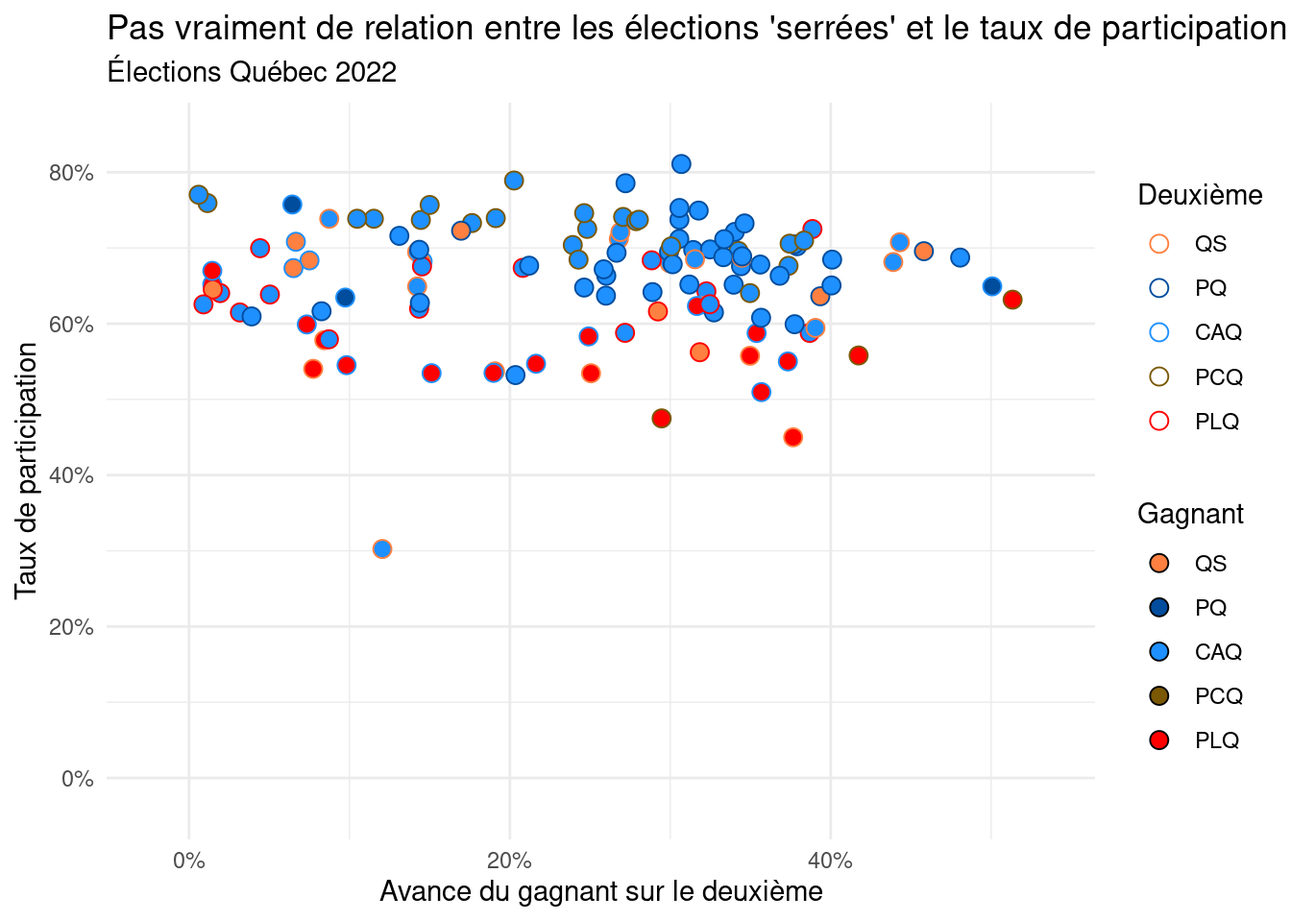
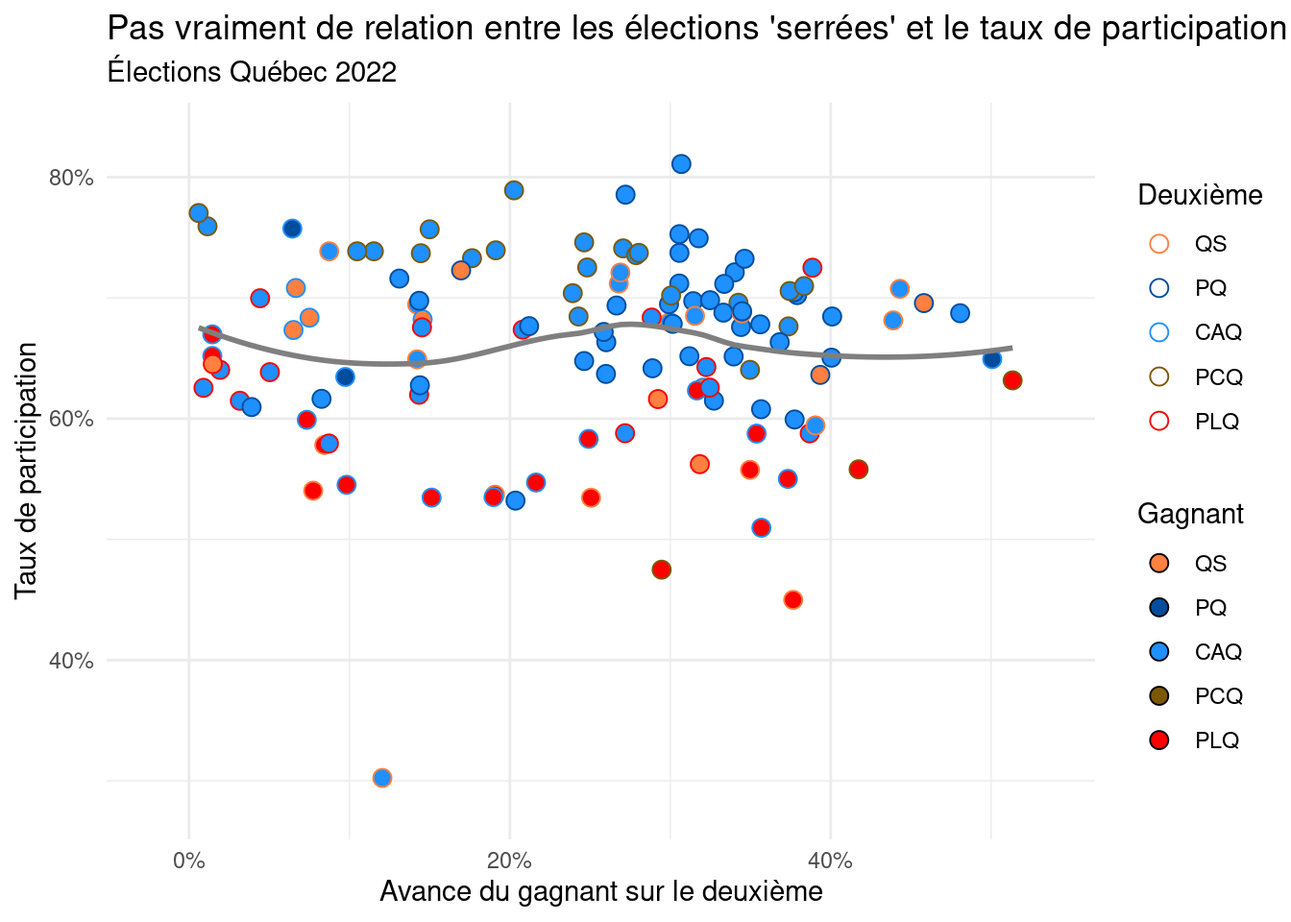
réparé le smooth en mettant aes(text=NULL)

diff --git a/static/post/2022-10-04-taux-de-participation-vs-serre/index.ca-fr_files/figure-html/widgets/widget_unnamed-chunk-4.html b/static/post/2022-10-04-taux-de-participation-vs-serre/index.ca-fr_files/figure-html/widgets/widget_unnamed-chunk-4.html
@@ -16,12 +16,12 @@
 </head>
 <body>
 <div id="htmlwidget_container">
-  <div id="htmlwidget-55739d3d28d488325084" style="width:100%;height:400px;" class="plotly html-widget"></div>
+  <div id="htmlwidget-c2f9a969cf5a049e5367" style="width:100%;height:400px;" class="plotly html-widget"></div>
   <script>HTMLWidgets.pymChild = new pym.Child();HTMLWidgets.addPostRenderHandler(function(){
                                 setTimeout(function(){HTMLWidgets.pymChild.sendHeight();},100);
                             });</script>
 </div>
-<script type="application/json" data-for="htmlwidget-55739d3d28d488325084">{"x":{"data":[{"x":[0.0145,0.0734,0.2163,0.2491,0.3538,0.3568,0.1512,0.3733,0.3166,0.0982,0.0145,0.1898],"y":[0.6519,0.599,0.5471,0.5832,0.5876,0.5096,0.5346,0.5501,0.6233,0.5452,0.6698,0.535],"text":["Vaudreuil gagnant: PLQ deuxième:CAQ","La Pinière gagnant: PLQ deuxième:CAQ","Marguerite-Bourgeoys gagnant: PLQ deuxième:CAQ","Marquette gagnant: PLQ deuxième:CAQ","Nelligan gagnant: PLQ deuxième:CAQ","Saint-Laurent gagnant: PLQ deuxième:CAQ","Bourassa-Sauvé gagnant: PLQ deuxième:CAQ","Jeanne-Mance-Viger gagnant: PLQ deuxième:CAQ","LaFontaine gagnant: PLQ deuxième:CAQ","Chomedey gagnant: PLQ deuxième:CAQ","Mille-Îles gagnant: PLQ deuxième:CAQ","Pontiac gagnant: PLQ deuxième:CAQ"],"type":"scatter","mode":"markers","marker":{"autocolorscale":false,"color":"rgba(255,0,0,1)","opacity":1,"size":11.3385826771654,"symbol":"circle","line":{"width":1.88976377952756,"color":"rgba(30,144,255,1)"}},"hoveron":"points","name":"(CAQ,PLQ)","legendgroup":"(CAQ,PLQ)","showlegend":true,"xaxis":"x","yaxis":"y","hoverinfo":"text","frame":null},{"x":[0.0974,0.5007,0.0644000000000001],"y":[0.6345,0.6493,0.7574],"text":["Camille-Laurin gagnant: PQ deuxième:CAQ","Matane-Matapédia gagnant: PQ deuxième:CAQ","Îles-de-la-Madeleine gagnant: PQ deuxième:CAQ"],"type":"scatter","mode":"markers","marker":{"autocolorscale":false,"color":"rgba(0,76,157,1)","opacity":1,"size":11.3385826771654,"symbol":"circle","line":{"width":1.88976377952756,"color":"rgba(30,144,255,1)"}},"hoveron":"points","name":"(CAQ,PQ)","legendgroup":"(CAQ,PQ)","showlegend":true,"xaxis":"x","yaxis":"y","hoverinfo":"text","frame":null},{"x":[0.0666,0.0751,0.3204,0.1456,0.0651],"y":[0.7082,0.6836,0.6256,0.6822,0.6734],"text":["Sherbrooke gagnant: QS deuxième:CAQ","Maurice-Richard gagnant: QS deuxième:CAQ","Hochelaga-Maisonneuve gagnant: QS deuxième:CAQ","Rosemont gagnant: QS deuxième:CAQ","Jean-Lesage gagnant: QS deuxième:CAQ"],"type":"scatter","mode":"markers","marker":{"autocolorscale":false,"color":"rgba(255,128,64,1)","opacity":1,"size":11.3385826771654,"symbol":"circle","line":{"width":1.88976377952756,"color":"rgba(30,144,255,1)"}},"hoveron":"points","name":"(CAQ,QS)","legendgroup":"(CAQ,QS)","showlegend":true,"xaxis":"x","yaxis":"y","hoverinfo":"text","frame":null},{"x":[0.2392,0.3737,0.3425,0.2706,0.2482,0.3744,0.3497,0.3834,0.1764,0.1445,0.2787,0.1912,0.2463,0.15,0.3005,0.0115,0.00600000000000001,0.1152,0.2026,0.2804,0.1048,0.2428],"y":[0.7039,0.6764,0.696,0.741,0.7252,0.7057,0.6404,0.7098,0.7329,0.737,0.7354,0.7394,0.746,0.7568,0.702,0.7593,0.7703,0.7386,0.7891,0.7373,0.7386,0.6846],"text":["Mégantic gagnant: CAQ deuxième:PCQ","Johnson gagnant: CAQ deuxième:PCQ","Drummond-Bois-Francs gagnant: CAQ deuxième:PCQ","Arthabaska gagnant: CAQ deuxième:PCQ","Nicolet-Bécancour gagnant: CAQ deuxième:PCQ","Maskinongé gagnant: CAQ deuxième:PCQ","Laviolette-Saint-Maurice gagnant: CAQ deuxième:PCQ","Champlain gagnant: CAQ deuxième:PCQ","Portneuf gagnant: CAQ deuxième:PCQ","La Peltrie gagnant: CAQ deuxième:PCQ","Vanier-Les Rivières gagnant: CAQ deuxième:PCQ","Montmorency gagnant: CAQ deuxième:PCQ","Charlesbourg gagnant: CAQ deuxième:PCQ","Chauveau gagnant: CAQ deuxième:PCQ","Charlevoix-Côte-de-Beaupré gagnant: CAQ deuxième:PCQ","Beauce-Sud gagnant: CAQ deuxième:PCQ","Beauce-Nord gagnant: CAQ deuxième:PCQ","Lotbinière-Frontenac gagnant: CAQ deuxième:PCQ","Chutes-de-la-Chaudière gagnant: CAQ deuxième:PCQ","Lévis gagnant: CAQ deuxième:PCQ","Bellechasse gagnant: CAQ deuxième:PCQ","Côte-du-Sud gagnant: CAQ deuxième:PCQ"],"type":"scatter","mode":"markers","marker":{"autocolorscale":false,"color":"rgba(30,144,255,1)","opacity":1,"size":11.3385826771654,"symbol":"circle","line":{"width":1.88976377952756,"color":"rgba(123,88,4,1)"}},"hoveron":"points","name":"(PCQ,CAQ)","legendgroup":"(PCQ,CAQ)","showlegend":true,"xaxis":"x","yaxis":"y","hoverinfo":"text","frame":null},{"x":[0.5134,0.4174,0.2946],"y":[0.6317,0.558,0.4749],"text":["Jacques-Cartier gagnant: PLQ deuxième:PCQ","Robert-Baldwin gagnant: PLQ deuxième:PCQ","D'Arcy-McGee gagnant: PLQ deuxième:PCQ"],"type":"scatter","mode":"markers","marker":{"autocolorscale":false,"color":"rgba(255,0,0,1)","opacity":1,"size":11.3385826771654,"symbol":"circle","line":{"width":1.88976377952756,"color":"rgba(123,88,4,1)"}},"hoveron":"points","name":"(PCQ,PLQ)","legendgroup":"(PCQ,PLQ)","showlegend":true,"xaxis":"x","yaxis":"y","hoverinfo":"text","frame":null},{"x":[0.3225,0.208,0.1434,0.3886,0.2884,0.0194,0.0504,0.0317,0.00899999999999999,0.1452,0.0443,0.0872,0.2718,0.3869,0.3246],"y":[0.6427,0.6737,0.6198,0.725,0.6837,0.6404,0.6385,0.6148,0.6255,0.6756,0.6997,0.5794,0.5879,0.5878,0.6257],"text":["Huntingdon gagnant: CAQ deuxième:PLQ","Soulanges gagnant: CAQ deuxième:PLQ","Châteauguay gagnant: CAQ deuxième:PLQ","La Prairie gagnant: CAQ deuxième:PLQ","Vachon gagnant: CAQ deuxième:PLQ","Laporte gagnant: CAQ deuxième:PLQ","Anjou-Louis-Riel gagnant: CAQ deuxième:PLQ","Laval-des-Rapides gagnant: CAQ deuxième:PLQ","Fabre gagnant: CAQ deuxième:PLQ","Sainte-Rose gagnant: CAQ deuxième:PLQ","Vimont gagnant: CAQ deuxième:PLQ","Hull gagnant: CAQ deuxième:PLQ","Gatineau gagnant: CAQ deuxième:PLQ","Chapleau gagnant: CAQ deuxième:PLQ","Abitibi-Est gagnant: CAQ deuxième:PLQ"],"type":"scatter","mode":"markers","marker":{"autocolorscale":false,"color":"rgba(30,144,255,1)","opacity":1,"size":11.3385826771654,"symbol":"circle","line":{"width":1.88976377952756,"color":"rgba(255,0,0,1)"}},"hoveron":"points","name":"(PLQ,CAQ)","legendgroup":"(PLQ,CAQ)","showlegend":true,"xaxis":"x","yaxis":"y","hoverinfo":"text","frame":null},{"x":[0.0148,0.3184,0.2923],"y":[0.6452,0.5623,0.6162],"text":["Verdun gagnant: QS deuxième:PLQ","Sainte-Marie-Saint-Jacques gagnant: QS deuxième:PLQ","Laurier-Dorion gagnant: QS deuxième:PLQ"],"type":"scatter","mode":"markers","marker":{"autocolorscale":false,"color":"rgba(255,128,64,1)","opacity":1,"size":11.3385826771654,"symbol":"circle","line":{"width":1.88976377952756,"color":"rgba(255,0,0,1)"}},"hoveron":"points","name":"(PLQ,QS)","legendgroup":"(PLQ,QS)","showlegend":true,"xaxis":"x","yaxis":"y","hoverinfo":"text","frame":null},{"x":[0.3791,0.3143,0.3682,0.3248,0.3057,0.0826,0.212,0.2721,0.3057,0.3177,0.3772,0.3561,0.2601,0.2992,0.3331,0.2889,0.3119,0.3441,0.3402,0.3056,0.3336,0.3463,0.3015,0.1435,0.3272,0.2665,0.2463,0.3395,0.2599,0.3069,0.3448,0.1311,0.1439,0.039,0.2035,0.3775,0.4005,0.4807,0.4009,0.2585,0.3566],"y":[0.7023,0.6973,0.6633,0.6981,0.7373,0.6164,0.6766,0.7855,0.7528,0.7494,0.7047,0.6781,0.6633,0.6948,0.6878,0.6417,0.6517,0.6759,0.7212,0.7119,0.7116,0.7324,0.6785,0.6976,0.6149,0.6937,0.6477,0.6515,0.637,0.8109,0.6889,0.716,0.6276,0.6096,0.5321,0.5993,0.6505,0.6873,0.6846,0.6718,0.6078],"text":["Iberville gagnant: CAQ deuxième:PQ","Saint-Jean gagnant: CAQ deuxième:PQ","Beauharnois gagnant: CAQ deuxième:PQ","Sanguinet gagnant: CAQ deuxième:PQ","Chambly gagnant: CAQ deuxième:PQ","Marie-Victorin gagnant: CAQ deuxième:PQ","Taillon gagnant: CAQ deuxième:PQ","Montarville gagnant: CAQ deuxième:PQ","Verchères gagnant: CAQ deuxième:PQ","Borduas gagnant: CAQ deuxième:PQ","Saint-Hyacinthe gagnant: CAQ deuxième:PQ","Richelieu gagnant: CAQ deuxième:PQ","Pointe-aux-Trembles gagnant: CAQ deuxième:PQ","Deux-Montagnes gagnant: CAQ deuxième:PQ","Mirabel gagnant: CAQ deuxième:PQ","Argenteuil gagnant: CAQ deuxième:PQ","Saint-Jérôme gagnant: CAQ deuxième:PQ","Les Plaines gagnant: CAQ deuxième:PQ","Blainville gagnant: CAQ deuxième:PQ","Terrebonne gagnant: CAQ deuxième:PQ","Masson gagnant: CAQ deuxième:PQ","Repentigny gagnant: CAQ deuxième:PQ","Berthier gagnant: CAQ deuxième:PQ","Joliette gagnant: CAQ deuxième:PQ","Rousseau gagnant: CAQ deuxième:PQ","Prévost gagnant: CAQ deuxième:PQ","Bertrand gagnant: CAQ deuxième:PQ","Labelle gagnant: CAQ deuxième:PQ","Abitibi-Ouest gagnant: CAQ deuxième:PQ","Louis-Hébert gagnant: CAQ deuxième:PQ","Rivière-du-Loup-Témiscouata gagnant: CAQ deuxième:PQ","Rimouski gagnant: CAQ deuxième:PQ","Bonaventure gagnant: CAQ deuxième:PQ","Gaspé gagnant: CAQ deuxième:PQ","Duplessis gagnant: CAQ deuxième:PQ","René-Lévesque gagnant: CAQ deuxième:PQ","Dubuc gagnant: CAQ deuxième:PQ","Chicoutimi gagnant: CAQ deuxième:PQ","Jonquière gagnant: CAQ deuxième:PQ","Lac-Saint-Jean gagnant: CAQ deuxième:PQ","Roberval gagnant: CAQ deuxième:PQ"],"type":"scatter","mode":"markers","marker":{"autocolorscale":false,"color":"rgba(30,144,255,1)","opacity":1,"size":11.3385826771654,"symbol":"circle","line":{"width":1.88976377952756,"color":"rgba(0,76,157,1)"}},"hoveron":"points","name":"(PQ,CAQ)","legendgroup":"(PQ,CAQ)","showlegend":true,"xaxis":"x","yaxis":"y","hoverinfo":"text","frame":null},{"x":[0.4581,0.3935,0.1696],"y":[0.6957,0.6362,0.7228],"text":["Gouin gagnant: QS deuxième:PQ","Mercier gagnant: QS deuxième:PQ","Taschereau gagnant: QS deuxième:PQ"],"type":"scatter","mode":"markers","marker":{"autocolorscale":false,"color":"rgba(255,128,64,1)","opacity":1,"size":11.3385826771654,"symbol":"circle","line":{"width":1.88976377952756,"color":"rgba(0,76,157,1)"}},"hoveron":"points","name":"(PQ,QS)","legendgroup":"(PQ,QS)","showlegend":true,"xaxis":"x","yaxis":"y","hoverinfo":"text","frame":null},{"x":[0.1422,0.2679,0.2689,0.2996,0.439,0.3154,0.4431,0.3905,0.1422,0.3446,0.0874,0.1205],"y":[0.6945,0.7119,0.721,0.6799,0.6814,0.6851,0.7075,0.5944,0.6491,0.6872,0.7386,0.3024],"text":["Saint-François gagnant: CAQ deuxième:QS","Orford gagnant: CAQ deuxième:QS","Richmond gagnant: CAQ deuxième:QS","Brome-Missisquoi gagnant: CAQ deuxième:QS","Granby gagnant: CAQ deuxième:QS","Groulx gagnant: CAQ deuxième:QS","L'Assomption gagnant: CAQ deuxième:QS","Papineau gagnant: CAQ deuxième:QS","Rouyn-Noranda-Témiscamingue gagnant: CAQ deuxième:QS","Trois-Rivières gagnant: CAQ deuxième:QS","Jean-Talon gagnant: CAQ deuxième:QS","Ungava gagnant: CAQ deuxième:QS"],"type":"scatter","mode":"markers","marker":{"autocolorscale":false,"color":"rgba(30,144,255,1)","opacity":1,"size":11.3385826771654,"symbol":"circle","line":{"width":1.88976377952756,"color":"rgba(255,128,64,1)"}},"hoveron":"points","name":"(QS,CAQ)","legendgroup":"(QS,CAQ)","showlegend":true,"xaxis":"x","yaxis":"y","hoverinfo":"text","frame":null},{"x":[0.3497,0.0843,0.3766,0.1907,0.2506,0.0774],"y":[0.5576,0.5782,0.4499,0.537,0.5345,0.5403],"text":["Notre-Dame-de-Grâce gagnant: PLQ deuxième:QS","Saint-Henri-Sainte-Anne gagnant: PLQ deuxième:QS","Westmount-Saint-Louis gagnant: PLQ deuxième:QS","Mont-Royal-Outremont gagnant: PLQ deuxième:QS","Acadie gagnant: PLQ deuxième:QS","Viau gagnant: PLQ deuxième:QS"],"type":"scatter","mode":"markers","marker":{"autocolorscale":false,"color":"rgba(255,0,0,1)","opacity":1,"size":11.3385826771654,"symbol":"circle","line":{"width":1.88976377952756,"color":"rgba(255,128,64,1)"}},"hoveron":"points","name":"(QS,PLQ)","legendgroup":"(QS,PLQ)","showlegend":true,"xaxis":"x","yaxis":"y","hoverinfo":"text","frame":null},{"visible":false,"showlegend":false,"xaxis":null,"yaxis":null,"hoverinfo":"text","frame":null}],"layout":{"margin":{"t":43.7625570776256,"r":7.30593607305936,"b":40.1826484018265,"l":43.1050228310502},"font":{"color":"rgba(0,0,0,1)","family":"","size":14.6118721461187},"title":{"text":"Pas vraiment de relation entre les élections 'serrées' et le taux de participation","font":{"color":"rgba(0,0,0,1)","family":"","size":17.5342465753425},"x":0,"xref":"paper"},"xaxis":{"domain":[0,1],"automargin":true,"type":"linear","autorange":false,"range":[-0.05134,0.56474],"tickmode":"array","ticktext":["0%","20%","40%"],"tickvals":[0,0.2,0.4],"categoryorder":"array","categoryarray":["0%","20%","40%"],"nticks":null,"ticks":"","tickcolor":null,"ticklen":3.65296803652968,"tickwidth":0,"showticklabels":true,"tickfont":{"color":"rgba(77,77,77,1)","family":"","size":11.689497716895},"tickangle":-0,"showline":false,"linecolor":null,"linewidth":0,"showgrid":true,"gridcolor":"rgba(235,235,235,1)","gridwidth":0.66417600664176,"zeroline":false,"anchor":"y","title":{"text":"Avance du gagnant sur le deuxième","font":{"color":"rgba(0,0,0,1)","family":"","size":14.6118721461187}},"hoverformat":".2f"},"yaxis":{"domain":[0,1],"automargin":true,"type":"linear","autorange":false,"range":[-0.08109,0.89199],"tickmode":"array","ticktext":["0%","20%","40%","60%","80%"],"tickvals":[0,0.2,0.4,0.6,0.8],"categoryorder":"array","categoryarray":["0%","20%","40%","60%","80%"],"nticks":null,"ticks":"","tickcolor":null,"ticklen":3.65296803652968,"tickwidth":0,"showticklabels":true,"tickfont":{"color":"rgba(77,77,77,1)","family":"","size":11.689497716895},"tickangle":-0,"showline":false,"linecolor":null,"linewidth":0,"showgrid":true,"gridcolor":"rgba(235,235,235,1)","gridwidth":0.66417600664176,"zeroline":false,"anchor":"x","title":{"text":"Taux de participation","font":{"color":"rgba(0,0,0,1)","family":"","size":14.6118721461187}},"hoverformat":".2f"},"shapes":[{"type":"rect","fillcolor":null,"line":{"color":null,"width":0,"linetype":[]},"yref":"paper","xref":"paper","x0":0,"x1":1,"y0":0,"y1":1}],"showlegend":false,"legend":{"bgcolor":null,"bordercolor":null,"borderwidth":0,"font":{"color":"rgba(0,0,0,1)","family":"","size":11.689497716895}},"hovermode":"closest","barmode":"relative"},"config":{"doubleClick":"reset","modeBarButtonsToAdd":["hoverclosest","hovercompare"],"showSendToCloud":false},"source":"A","attrs":{"91e3d9e601b4":{"x":{},"y":{},"text":{},"fill":{},"colour":{},"type":"scatter"},"91e3d59ccb02a":{"x":{},"y":{},"text":{}}},"cur_data":"91e3d9e601b4","visdat":{"91e3d9e601b4":["function (y) ","x"],"91e3d59ccb02a":["function (y) ","x"]},"highlight":{"on":"plotly_click","persistent":false,"dynamic":false,"selectize":false,"opacityDim":0.2,"selected":{"opacity":1},"debounce":0},"shinyEvents":["plotly_hover","plotly_click","plotly_selected","plotly_relayout","plotly_brushed","plotly_brushing","plotly_clickannotation","plotly_doubleclick","plotly_deselect","plotly_afterplot","plotly_sunburstclick"],"base_url":"https://plot.ly"},"evals":[],"jsHooks":[]}</script>
-<script type="application/htmlwidget-sizing" data-for="htmlwidget-55739d3d28d488325084">{"viewer":{"width":"100%","height":400,"padding":0,"fill":false},"browser":{"width":"100%","height":400,"padding":0,"fill":false}}</script>
+<script type="application/json" data-for="htmlwidget-c2f9a969cf5a049e5367">{"x":{"data":[{"x":[0.0145,0.0734,0.2163,0.2491,0.3538,0.3568,0.1512,0.3733,0.3166,0.0982,0.0145,0.1898],"y":[0.6519,0.599,0.5471,0.5832,0.5876,0.5096,0.5346,0.5501,0.6233,0.5452,0.6698,0.535],"text":["Vaudreuil gagnant: PLQ deuxième:CAQ","La Pinière gagnant: PLQ deuxième:CAQ","Marguerite-Bourgeoys gagnant: PLQ deuxième:CAQ","Marquette gagnant: PLQ deuxième:CAQ","Nelligan gagnant: PLQ deuxième:CAQ","Saint-Laurent gagnant: PLQ deuxième:CAQ","Bourassa-Sauvé gagnant: PLQ deuxième:CAQ","Jeanne-Mance-Viger gagnant: PLQ deuxième:CAQ","LaFontaine gagnant: PLQ deuxième:CAQ","Chomedey gagnant: PLQ deuxième:CAQ","Mille-Îles gagnant: PLQ deuxième:CAQ","Pontiac gagnant: PLQ deuxième:CAQ"],"type":"scatter","mode":"markers","marker":{"autocolorscale":false,"color":"rgba(255,0,0,1)","opacity":1,"size":11.3385826771654,"symbol":"circle","line":{"width":1.88976377952756,"color":"rgba(30,144,255,1)"}},"hoveron":"points","name":"(CAQ,PLQ)","legendgroup":"(CAQ,PLQ)","showlegend":true,"xaxis":"x","yaxis":"y","hoverinfo":"text","frame":null},{"x":[0.0974,0.5007,0.0644000000000001],"y":[0.6345,0.6493,0.7574],"text":["Camille-Laurin gagnant: PQ deuxième:CAQ","Matane-Matapédia gagnant: PQ deuxième:CAQ","Îles-de-la-Madeleine gagnant: PQ deuxième:CAQ"],"type":"scatter","mode":"markers","marker":{"autocolorscale":false,"color":"rgba(0,76,157,1)","opacity":1,"size":11.3385826771654,"symbol":"circle","line":{"width":1.88976377952756,"color":"rgba(30,144,255,1)"}},"hoveron":"points","name":"(CAQ,PQ)","legendgroup":"(CAQ,PQ)","showlegend":true,"xaxis":"x","yaxis":"y","hoverinfo":"text","frame":null},{"x":[0.0666,0.0751,0.3204,0.1456,0.0651],"y":[0.7082,0.6836,0.6256,0.6822,0.6734],"text":["Sherbrooke gagnant: QS deuxième:CAQ","Maurice-Richard gagnant: QS deuxième:CAQ","Hochelaga-Maisonneuve gagnant: QS deuxième:CAQ","Rosemont gagnant: QS deuxième:CAQ","Jean-Lesage gagnant: QS deuxième:CAQ"],"type":"scatter","mode":"markers","marker":{"autocolorscale":false,"color":"rgba(255,128,64,1)","opacity":1,"size":11.3385826771654,"symbol":"circle","line":{"width":1.88976377952756,"color":"rgba(30,144,255,1)"}},"hoveron":"points","name":"(CAQ,QS)","legendgroup":"(CAQ,QS)","showlegend":true,"xaxis":"x","yaxis":"y","hoverinfo":"text","frame":null},{"x":[0.2392,0.3737,0.3425,0.2706,0.2482,0.3744,0.3497,0.3834,0.1764,0.1445,0.2787,0.1912,0.2463,0.15,0.3005,0.0115,0.00600000000000001,0.1152,0.2026,0.2804,0.1048,0.2428],"y":[0.7039,0.6764,0.696,0.741,0.7252,0.7057,0.6404,0.7098,0.7329,0.737,0.7354,0.7394,0.746,0.7568,0.702,0.7593,0.7703,0.7386,0.7891,0.7373,0.7386,0.6846],"text":["Mégantic gagnant: CAQ deuxième:PCQ","Johnson gagnant: CAQ deuxième:PCQ","Drummond-Bois-Francs gagnant: CAQ deuxième:PCQ","Arthabaska gagnant: CAQ deuxième:PCQ","Nicolet-Bécancour gagnant: CAQ deuxième:PCQ","Maskinongé gagnant: CAQ deuxième:PCQ","Laviolette-Saint-Maurice gagnant: CAQ deuxième:PCQ","Champlain gagnant: CAQ deuxième:PCQ","Portneuf gagnant: CAQ deuxième:PCQ","La Peltrie gagnant: CAQ deuxième:PCQ","Vanier-Les Rivières gagnant: CAQ deuxième:PCQ","Montmorency gagnant: CAQ deuxième:PCQ","Charlesbourg gagnant: CAQ deuxième:PCQ","Chauveau gagnant: CAQ deuxième:PCQ","Charlevoix-Côte-de-Beaupré gagnant: CAQ deuxième:PCQ","Beauce-Sud gagnant: CAQ deuxième:PCQ","Beauce-Nord gagnant: CAQ deuxième:PCQ","Lotbinière-Frontenac gagnant: CAQ deuxième:PCQ","Chutes-de-la-Chaudière gagnant: CAQ deuxième:PCQ","Lévis gagnant: CAQ deuxième:PCQ","Bellechasse gagnant: CAQ deuxième:PCQ","Côte-du-Sud gagnant: CAQ deuxième:PCQ"],"type":"scatter","mode":"markers","marker":{"autocolorscale":false,"color":"rgba(30,144,255,1)","opacity":1,"size":11.3385826771654,"symbol":"circle","line":{"width":1.88976377952756,"color":"rgba(123,88,4,1)"}},"hoveron":"points","name":"(PCQ,CAQ)","legendgroup":"(PCQ,CAQ)","showlegend":true,"xaxis":"x","yaxis":"y","hoverinfo":"text","frame":null},{"x":[0.5134,0.4174,0.2946],"y":[0.6317,0.558,0.4749],"text":["Jacques-Cartier gagnant: PLQ deuxième:PCQ","Robert-Baldwin gagnant: PLQ deuxième:PCQ","D'Arcy-McGee gagnant: PLQ deuxième:PCQ"],"type":"scatter","mode":"markers","marker":{"autocolorscale":false,"color":"rgba(255,0,0,1)","opacity":1,"size":11.3385826771654,"symbol":"circle","line":{"width":1.88976377952756,"color":"rgba(123,88,4,1)"}},"hoveron":"points","name":"(PCQ,PLQ)","legendgroup":"(PCQ,PLQ)","showlegend":true,"xaxis":"x","yaxis":"y","hoverinfo":"text","frame":null},{"x":[0.3225,0.208,0.1434,0.3886,0.2884,0.0194,0.0504,0.0317,0.00899999999999999,0.1452,0.0443,0.0872,0.2718,0.3869,0.3246],"y":[0.6427,0.6737,0.6198,0.725,0.6837,0.6404,0.6385,0.6148,0.6255,0.6756,0.6997,0.5794,0.5879,0.5878,0.6257],"text":["Huntingdon gagnant: CAQ deuxième:PLQ","Soulanges gagnant: CAQ deuxième:PLQ","Châteauguay gagnant: CAQ deuxième:PLQ","La Prairie gagnant: CAQ deuxième:PLQ","Vachon gagnant: CAQ deuxième:PLQ","Laporte gagnant: CAQ deuxième:PLQ","Anjou-Louis-Riel gagnant: CAQ deuxième:PLQ","Laval-des-Rapides gagnant: CAQ deuxième:PLQ","Fabre gagnant: CAQ deuxième:PLQ","Sainte-Rose gagnant: CAQ deuxième:PLQ","Vimont gagnant: CAQ deuxième:PLQ","Hull gagnant: CAQ deuxième:PLQ","Gatineau gagnant: CAQ deuxième:PLQ","Chapleau gagnant: CAQ deuxième:PLQ","Abitibi-Est gagnant: CAQ deuxième:PLQ"],"type":"scatter","mode":"markers","marker":{"autocolorscale":false,"color":"rgba(30,144,255,1)","opacity":1,"size":11.3385826771654,"symbol":"circle","line":{"width":1.88976377952756,"color":"rgba(255,0,0,1)"}},"hoveron":"points","name":"(PLQ,CAQ)","legendgroup":"(PLQ,CAQ)","showlegend":true,"xaxis":"x","yaxis":"y","hoverinfo":"text","frame":null},{"x":[0.0148,0.3184,0.2923],"y":[0.6452,0.5623,0.6162],"text":["Verdun gagnant: QS deuxième:PLQ","Sainte-Marie-Saint-Jacques gagnant: QS deuxième:PLQ","Laurier-Dorion gagnant: QS deuxième:PLQ"],"type":"scatter","mode":"markers","marker":{"autocolorscale":false,"color":"rgba(255,128,64,1)","opacity":1,"size":11.3385826771654,"symbol":"circle","line":{"width":1.88976377952756,"color":"rgba(255,0,0,1)"}},"hoveron":"points","name":"(PLQ,QS)","legendgroup":"(PLQ,QS)","showlegend":true,"xaxis":"x","yaxis":"y","hoverinfo":"text","frame":null},{"x":[0.3791,0.3143,0.3682,0.3248,0.3057,0.0826,0.212,0.2721,0.3057,0.3177,0.3772,0.3561,0.2601,0.2992,0.3331,0.2889,0.3119,0.3441,0.3402,0.3056,0.3336,0.3463,0.3015,0.1435,0.3272,0.2665,0.2463,0.3395,0.2599,0.3069,0.3448,0.1311,0.1439,0.039,0.2035,0.3775,0.4005,0.4807,0.4009,0.2585,0.3566],"y":[0.7023,0.6973,0.6633,0.6981,0.7373,0.6164,0.6766,0.7855,0.7528,0.7494,0.7047,0.6781,0.6633,0.6948,0.6878,0.6417,0.6517,0.6759,0.7212,0.7119,0.7116,0.7324,0.6785,0.6976,0.6149,0.6937,0.6477,0.6515,0.637,0.8109,0.6889,0.716,0.6276,0.6096,0.5321,0.5993,0.6505,0.6873,0.6846,0.6718,0.6078],"text":["Iberville gagnant: CAQ deuxième:PQ","Saint-Jean gagnant: CAQ deuxième:PQ","Beauharnois gagnant: CAQ deuxième:PQ","Sanguinet gagnant: CAQ deuxième:PQ","Chambly gagnant: CAQ deuxième:PQ","Marie-Victorin gagnant: CAQ deuxième:PQ","Taillon gagnant: CAQ deuxième:PQ","Montarville gagnant: CAQ deuxième:PQ","Verchères gagnant: CAQ deuxième:PQ","Borduas gagnant: CAQ deuxième:PQ","Saint-Hyacinthe gagnant: CAQ deuxième:PQ","Richelieu gagnant: CAQ deuxième:PQ","Pointe-aux-Trembles gagnant: CAQ deuxième:PQ","Deux-Montagnes gagnant: CAQ deuxième:PQ","Mirabel gagnant: CAQ deuxième:PQ","Argenteuil gagnant: CAQ deuxième:PQ","Saint-Jérôme gagnant: CAQ deuxième:PQ","Les Plaines gagnant: CAQ deuxième:PQ","Blainville gagnant: CAQ deuxième:PQ","Terrebonne gagnant: CAQ deuxième:PQ","Masson gagnant: CAQ deuxième:PQ","Repentigny gagnant: CAQ deuxième:PQ","Berthier gagnant: CAQ deuxième:PQ","Joliette gagnant: CAQ deuxième:PQ","Rousseau gagnant: CAQ deuxième:PQ","Prévost gagnant: CAQ deuxième:PQ","Bertrand gagnant: CAQ deuxième:PQ","Labelle gagnant: CAQ deuxième:PQ","Abitibi-Ouest gagnant: CAQ deuxième:PQ","Louis-Hébert gagnant: CAQ deuxième:PQ","Rivière-du-Loup-Témiscouata gagnant: CAQ deuxième:PQ","Rimouski gagnant: CAQ deuxième:PQ","Bonaventure gagnant: CAQ deuxième:PQ","Gaspé gagnant: CAQ deuxième:PQ","Duplessis gagnant: CAQ deuxième:PQ","René-Lévesque gagnant: CAQ deuxième:PQ","Dubuc gagnant: CAQ deuxième:PQ","Chicoutimi gagnant: CAQ deuxième:PQ","Jonquière gagnant: CAQ deuxième:PQ","Lac-Saint-Jean gagnant: CAQ deuxième:PQ","Roberval gagnant: CAQ deuxième:PQ"],"type":"scatter","mode":"markers","marker":{"autocolorscale":false,"color":"rgba(30,144,255,1)","opacity":1,"size":11.3385826771654,"symbol":"circle","line":{"width":1.88976377952756,"color":"rgba(0,76,157,1)"}},"hoveron":"points","name":"(PQ,CAQ)","legendgroup":"(PQ,CAQ)","showlegend":true,"xaxis":"x","yaxis":"y","hoverinfo":"text","frame":null},{"x":[0.4581,0.3935,0.1696],"y":[0.6957,0.6362,0.7228],"text":["Gouin gagnant: QS deuxième:PQ","Mercier gagnant: QS deuxième:PQ","Taschereau gagnant: QS deuxième:PQ"],"type":"scatter","mode":"markers","marker":{"autocolorscale":false,"color":"rgba(255,128,64,1)","opacity":1,"size":11.3385826771654,"symbol":"circle","line":{"width":1.88976377952756,"color":"rgba(0,76,157,1)"}},"hoveron":"points","name":"(PQ,QS)","legendgroup":"(PQ,QS)","showlegend":true,"xaxis":"x","yaxis":"y","hoverinfo":"text","frame":null},{"x":[0.1422,0.2679,0.2689,0.2996,0.439,0.3154,0.4431,0.3905,0.1422,0.3446,0.0874,0.1205],"y":[0.6945,0.7119,0.721,0.6799,0.6814,0.6851,0.7075,0.5944,0.6491,0.6872,0.7386,0.3024],"text":["Saint-François gagnant: CAQ deuxième:QS","Orford gagnant: CAQ deuxième:QS","Richmond gagnant: CAQ deuxième:QS","Brome-Missisquoi gagnant: CAQ deuxième:QS","Granby gagnant: CAQ deuxième:QS","Groulx gagnant: CAQ deuxième:QS","L'Assomption gagnant: CAQ deuxième:QS","Papineau gagnant: CAQ deuxième:QS","Rouyn-Noranda-Témiscamingue gagnant: CAQ deuxième:QS","Trois-Rivières gagnant: CAQ deuxième:QS","Jean-Talon gagnant: CAQ deuxième:QS","Ungava gagnant: CAQ deuxième:QS"],"type":"scatter","mode":"markers","marker":{"autocolorscale":false,"color":"rgba(30,144,255,1)","opacity":1,"size":11.3385826771654,"symbol":"circle","line":{"width":1.88976377952756,"color":"rgba(255,128,64,1)"}},"hoveron":"points","name":"(QS,CAQ)","legendgroup":"(QS,CAQ)","showlegend":true,"xaxis":"x","yaxis":"y","hoverinfo":"text","frame":null},{"x":[0.3497,0.0843,0.3766,0.1907,0.2506,0.0774],"y":[0.5576,0.5782,0.4499,0.537,0.5345,0.5403],"text":["Notre-Dame-de-Grâce gagnant: PLQ deuxième:QS","Saint-Henri-Sainte-Anne gagnant: PLQ deuxième:QS","Westmount-Saint-Louis gagnant: PLQ deuxième:QS","Mont-Royal-Outremont gagnant: PLQ deuxième:QS","Acadie gagnant: PLQ deuxième:QS","Viau gagnant: PLQ deuxième:QS"],"type":"scatter","mode":"markers","marker":{"autocolorscale":false,"color":"rgba(255,0,0,1)","opacity":1,"size":11.3385826771654,"symbol":"circle","line":{"width":1.88976377952756,"color":"rgba(255,128,64,1)"}},"hoveron":"points","name":"(QS,PLQ)","legendgroup":"(QS,PLQ)","showlegend":true,"xaxis":"x","yaxis":"y","hoverinfo":"text","frame":null},{"x":[0.00600000000000001,0.0124227848101266,0.0188455696202532,0.0252683544303798,0.0316911392405063,0.0381139240506329,0.0445367088607595,0.0509594936708861,0.0573822784810127,0.0638050632911393,0.0702278481012659,0.0766506329113924,0.083073417721519,0.0894962025316456,0.0959189873417722,0.102341772151899,0.108764556962025,0.115187341772152,0.121610126582279,0.128032911392405,0.134455696202532,0.140878481012658,0.147301265822785,0.153724050632911,0.160146835443038,0.166569620253165,0.172992405063291,0.179415189873418,0.185837974683544,0.192260759493671,0.198683544303798,0.205106329113924,0.211529113924051,0.217951898734177,0.224374683544304,0.23079746835443,0.237220253164557,0.243643037974684,0.25006582278481,0.256488607594937,0.262911392405063,0.26933417721519,0.275756962025316,0.282179746835443,0.28860253164557,0.295025316455696,0.301448101265823,0.307870886075949,0.314293670886076,0.320716455696203,0.327139240506329,0.333562025316456,0.339984810126582,0.346407594936709,0.352830379746836,0.359253164556962,0.365675949367089,0.372098734177215,0.378521518987342,0.384944303797468,0.391367088607595,0.397789873417722,0.404212658227848,0.410635443037975,0.417058227848101,0.423481012658228,0.429903797468354,0.436326582278481,0.442749367088608,0.449172151898734,0.455594936708861,0.462017721518987,0.468440506329114,0.474863291139241,0.481286075949367,0.487708860759494,0.49413164556962,0.500554430379747,0.506977215189873,0.5134],"y":[0.675333296792837,0.672111389265325,0.669065860913901,0.66619730916386,0.663506331440497,0.660993525169108,0.658659487774988,0.656504816683431,0.654530109319734,0.652735963109191,0.651122975477098,0.649693020538928,0.648473431780437,0.647466181298417,0.646659445967946,0.646041402664103,0.645600228261966,0.645324099636612,0.645201193663119,0.645219687216567,0.645367757172033,0.645633580404594,0.646054618693623,0.646864116151076,0.648044088723879,0.649535932775577,0.651281044669718,0.653220820769847,0.655296657439511,0.657449951042256,0.659622097941628,0.661754494501173,0.663788537084438,0.665665622054968,0.667327145776311,0.668714504612012,0.669769094925616,0.670786712097543,0.672557669536803,0.674665605500829,0.67661690559711,0.677917955433133,0.678200337315208,0.677804621497415,0.676919365202128,0.675680983236061,0.674225890405921,0.672690501518422,0.671211231380273,0.669208032151883,0.666426130484382,0.663494578783733,0.661042430232717,0.659591206997206,0.65837967183632,0.657169326141103,0.65602504537645,0.655011705007259,0.65419192862689,0.653503652712326,0.652893229884028,0.652362544903668,0.651913482532917,0.651547927533446,0.651267764666926,0.651074878695027,0.650971154379421,0.650958476481779,0.651038729763772,0.65121379898707,0.651485568913346,0.651855924304268,0.65232674992151,0.652899930526741,0.653577350881633,0.654360895747857,0.655252449887083,0.656253898060984,0.657367125031228,0.658594015559489],"text":"","type":"scatter","mode":"lines","name":"fitted values","line":{"width":3.77952755905512,"color":"rgba(127,127,127,1)","dash":"solid"},"hoveron":"points","showlegend":false,"xaxis":"x","yaxis":"y","hoverinfo":"text","frame":null}],"layout":{"margin":{"t":43.7625570776256,"r":7.30593607305936,"b":40.1826484018265,"l":43.1050228310502},"font":{"color":"rgba(0,0,0,1)","family":"","size":14.6118721461187},"title":{"text":"Pas vraiment de relation entre les élections 'serrées' et le taux de participation","font":{"color":"rgba(0,0,0,1)","family":"","size":17.5342465753425},"x":0,"xref":"paper"},"xaxis":{"domain":[0,1],"automargin":true,"type":"linear","autorange":false,"range":[-0.05134,0.56474],"tickmode":"array","ticktext":["0%","20%","40%"],"tickvals":[0,0.2,0.4],"categoryorder":"array","categoryarray":["0%","20%","40%"],"nticks":null,"ticks":"","tickcolor":null,"ticklen":3.65296803652968,"tickwidth":0,"showticklabels":true,"tickfont":{"color":"rgba(77,77,77,1)","family":"","size":11.689497716895},"tickangle":-0,"showline":false,"linecolor":null,"linewidth":0,"showgrid":true,"gridcolor":"rgba(235,235,235,1)","gridwidth":0.66417600664176,"zeroline":false,"anchor":"y","title":{"text":"Avance du gagnant sur le deuxième","font":{"color":"rgba(0,0,0,1)","family":"","size":14.6118721461187}},"hoverformat":".2f"},"yaxis":{"domain":[0,1],"automargin":true,"type":"linear","autorange":false,"range":[0.25155,0.86175],"tickmode":"array","ticktext":["40%","60%","80%"],"tickvals":[0.4,0.6,0.8],"categoryorder":"array","categoryarray":["40%","60%","80%"],"nticks":null,"ticks":"","tickcolor":null,"ticklen":3.65296803652968,"tickwidth":0,"showticklabels":true,"tickfont":{"color":"rgba(77,77,77,1)","family":"","size":11.689497716895},"tickangle":-0,"showline":false,"linecolor":null,"linewidth":0,"showgrid":true,"gridcolor":"rgba(235,235,235,1)","gridwidth":0.66417600664176,"zeroline":false,"anchor":"x","title":{"text":"Taux de participation","font":{"color":"rgba(0,0,0,1)","family":"","size":14.6118721461187}},"hoverformat":".2f"},"shapes":[{"type":"rect","fillcolor":null,"line":{"color":null,"width":0,"linetype":[]},"yref":"paper","xref":"paper","x0":0,"x1":1,"y0":0,"y1":1}],"showlegend":false,"legend":{"bgcolor":null,"bordercolor":null,"borderwidth":0,"font":{"color":"rgba(0,0,0,1)","family":"","size":11.689497716895}},"hovermode":"closest","barmode":"relative"},"config":{"doubleClick":"reset","modeBarButtonsToAdd":["hoverclosest","hovercompare"],"showSendToCloud":false},"source":"A","attrs":{"9282e193e382d":{"x":{},"y":{},"text":{},"fill":{},"colour":{},"type":"scatter"},"9282e7b4bedfa":{"x":{},"y":{}}},"cur_data":"9282e193e382d","visdat":{"9282e193e382d":["function (y) ","x"],"9282e7b4bedfa":["function (y) ","x"]},"highlight":{"on":"plotly_click","persistent":false,"dynamic":false,"selectize":false,"opacityDim":0.2,"selected":{"opacity":1},"debounce":0},"shinyEvents":["plotly_hover","plotly_click","plotly_selected","plotly_relayout","plotly_brushed","plotly_brushing","plotly_clickannotation","plotly_doubleclick","plotly_deselect","plotly_afterplot","plotly_sunburstclick"],"base_url":"https://plot.ly"},"evals":[],"jsHooks":[]}</script>
+<script type="application/htmlwidget-sizing" data-for="htmlwidget-c2f9a969cf5a049e5367">{"viewer":{"width":"100%","height":400,"padding":0,"fill":false},"browser":{"width":"100%","height":400,"padding":0,"fill":false}}</script>
 </body>
 </html>

diff --git a/content/post/2022-10-04-taux-de-participation-vs-serre/index.ca-fr.html b/content/post/2022-10-04-taux-de-participation-vs-serre/index.ca-fr.html
@@ -18,7 +18,8 @@ keywords:
 
 
 <p>Question: Est-ce que le taux de participation est corrélée avec le fait d’avoir une élection “serrée” dans une circonscription?</p>
-<p>Réponse : pas vraiment :</p>
+<p>Réponse : pas vraiment.</p>
+<p>Nouvelle hypothèse: peut-être qu’On devrait mettre le nombre de victoires du parti dominant dans les 10 dernières élections en X.</p>
 <p>données proviennent d’ici:
 <a href="https://www.dgeq.org/donnees.html" class="uri">https://www.dgeq.org/donnees.html</a></p>
 <p>on utilise
